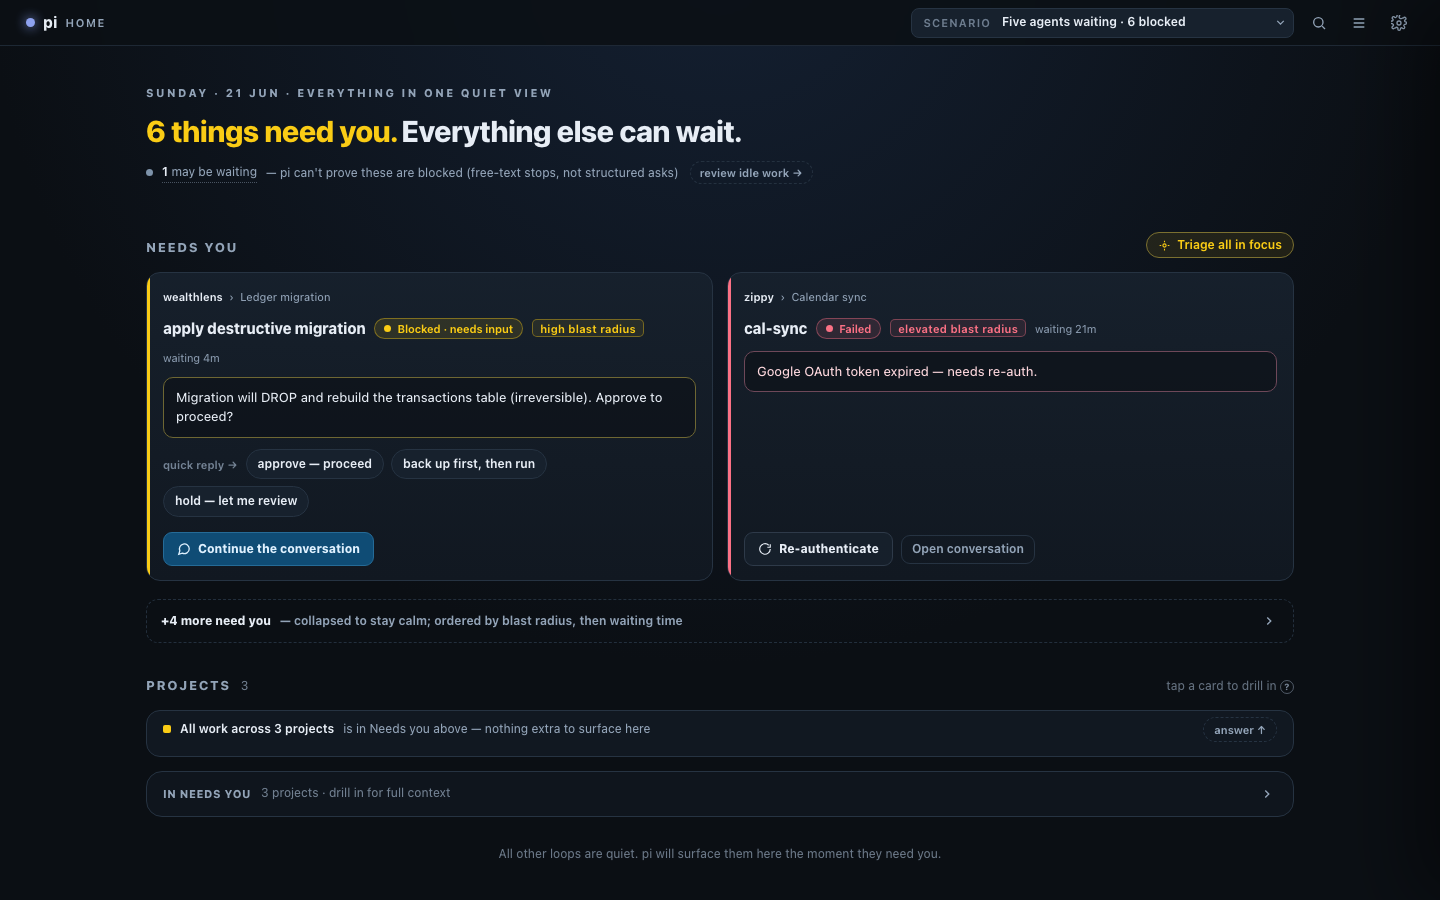
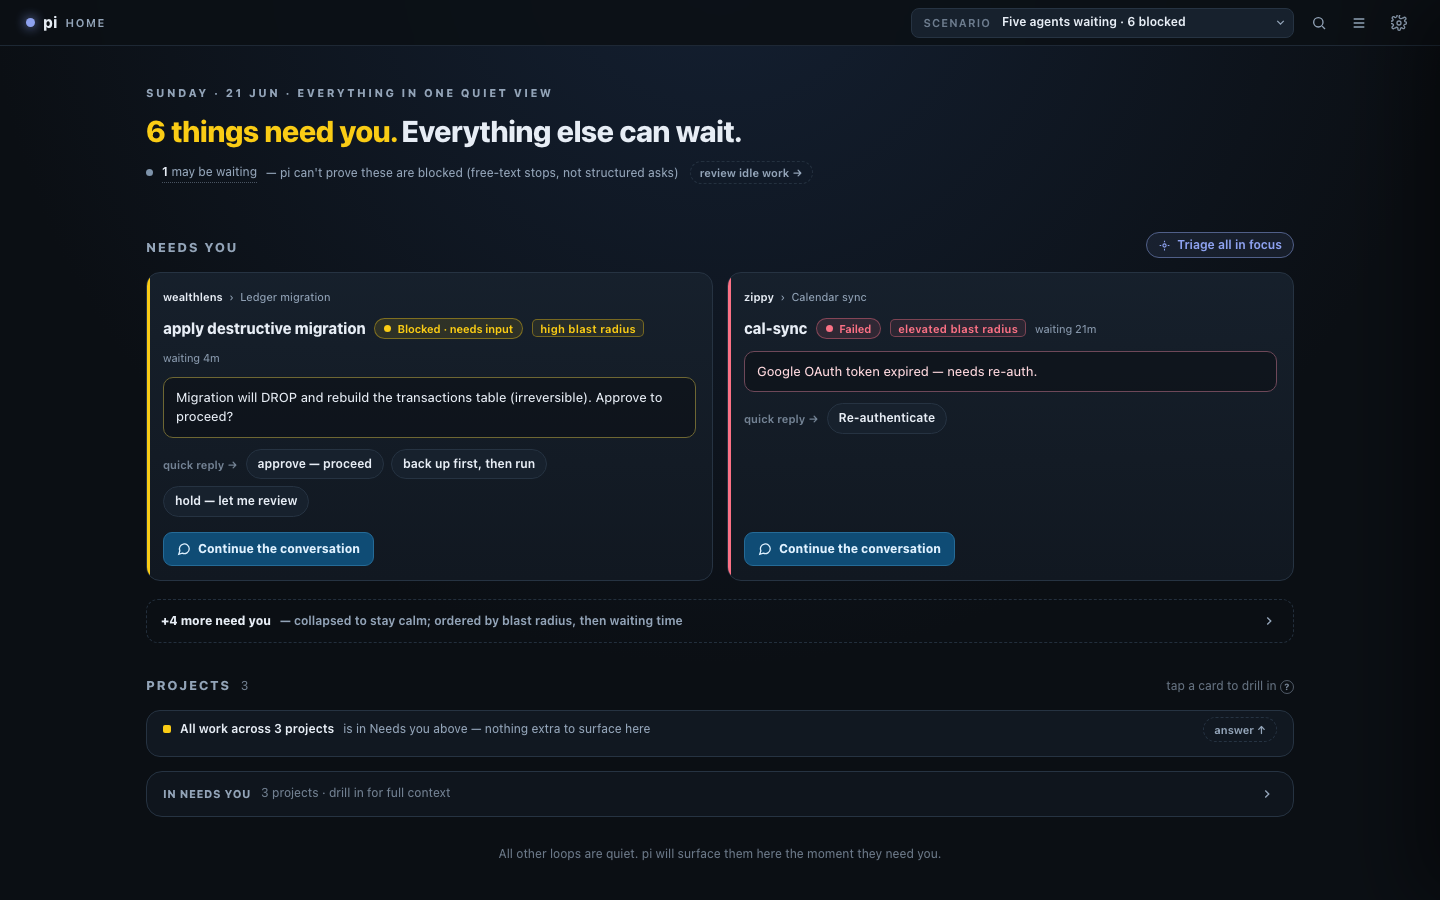
docs: visual review verdict

Changed region(s): [[0.5, 0.5911, 0.7188, 0.6533], [0.8125, 0.2489, 0.9062, 0.28], [0.5938, 0.4356, 0.6562, 0.4667]]

diff --git a/docs/dashboard-designs-final/CONVERGENCE-RUN.md b/docs/dashboard-designs-final/CONVERGENCE-RUN.md
@@ -293,3 +293,98 @@ converged, but the gap between it and convergence is three known, scoped edits r
 structural or conceptual flaw. The honesty discipline held where the design claimed it: the only
 place the code contradicted its own honesty annotations (the round-2 loop-elapsed surface) was
 caught and fixed.
+
+---
+
+## Visual review (steelman vs. red team, judged on screenshots)
+
+The adversarial run above debated the *code*: it grepped `index.html`, traced helpers, and argued
+about grounding. This second run debated the *picture*. A steelman and a red team each **looked at
+the rendered captures** — all thirteen-plus screenshots in this folder (the scenario set:
+`scn-calm`, `scn-blocked`, `scn-coldstart`, `scn-loop`, `scn-mixed`, `scn-scale`, `scn-nogit`,
+`scn-dense`, `scn-single`, `scn-empty`, plus the interaction states `state-coldstart-expanded`,
+`state-dormant-expanded`, `state-continue`, `state-drill`, `state-expand`, and `home`) — zoomed
+into contested regions at up to 10x, and argued about what the design *communicates to a human
+looking at it*: hero voice, color meaning, scannability, card silhouette, layout rhythm, and
+whether a glance tells the truth. A convergence judge then re-checked every charge against both the
+pixels and the code and graded the artifact's visual quality directly.
+
+### Per-round scorecard
+
+| Round | Commit    | Steelman grade | Judge visual grade | Charges | Upheld HIGH | Upheld MED | Overruled | Converged |
+| ----- | --------- | -------------- | ------------------ | ------- | ----------- | ---------- | --------- | --------- |
+| 1     | (pre-fix) | 8              | 8                  | 19      | 5           | 3          | 2         | no        |
+| 2     | `8bf3649` | 8              | 8                  | 18      | 1           | 2          | 3         | no        |
+| 3     | `e3ec889` | 8              | 8                  | 16      | 0           | 3          | 4         | no        |
+
+Visual grade held at 8/10 the whole run while the defect profile drained from the top down: five
+HIGH in round 1, one in round 2, zero by round 3. The remaining blockers are bounded medium-grade
+layout and keying issues, not conceptual ones — the same shape as the code run, where the design
+never lost a core invariant.
+
+### Most notable UPHELD visual/UX issues — and how they were fixed
+
+- **The cold-start hero lied at a glance (HIGH, rounds 1–2).** A registered project with *no*
+  Definition of Done rendered as `healthy` at every collapsed surface — `newsvc … healthy` under
+  "HEALTHY & DORMANT", and a hero reading "Nothing needs you." The eye was told everything was fine
+  when a project explicitly needed setup. **Fixed structurally:** cold-start now gets its own indigo
+  voice-changing hero — "1 project needs setup — author a Definition of Done to start tracking." —
+  its own "NEEDS SETUP" project group, a filled "Set a Definition of Done" CTA, and a purple
+  `Needs setup` chip (see `scn-coldstart.png` / `state-coldstart-expanded.png`). The unset state is
+  routed out of `healthy`/`dormant` entirely instead of silently folding into calm.
+- **"Continue the conversation" was not the consistent primary (MED, rounds 1–2).** The failed
+  cal-sync card taught "Re-authenticate" as its filled button while the neighboring blocked card said
+  "Continue" — breaking the reflex that *the answer is always to continue*. **Fixed:** every NEEDS
+  YOU card now carries a single filled-primary "Continue the conversation"; the remedy
+  (Re-authenticate / Re-run) is demoted to the secondary outline style (`scn-blocked.png`,
+  `home.png`).
+- **A status hue leaked onto an action control (MED, round 2).** The "Triage all in focus" bulk
+  button was painted the same amber reserved for Blocked status, on a six-blocked screen. **Fixed:**
+  the focus button now uses the indigo interaction accent, never a status color — matching the
+  sign-off bulk button, which already proved the pattern (action ≠ status).
+- **Three card silhouettes in one scale row + an indented auto-expanded card (MED, round 3,
+  open).** In `scn-scale.png` the project cards don't share one silhouette (filled vs. empty
+  top-right slot, ring vs. `∞` baseline, one subtitle truncates), and the auto-expanded mixed card
+  in `scn-mixed.png` renders narrower/indented than the full-bleed panels above it and clips at the
+  fold. These are the bounded layout fixes still queued at the cap.
+
+### Most notable OVERRULED charges (where the adversary was wrong on looking)
+
+The red team's loudest "dishonesty" charges mostly failed once the judge actually looked at the
+pixels:
+
+- **"The calm ring is a lie" — overruled.** The "1/1 met DoD" ring counts only the merged
+  workstream and discloses "1 loop running" separately; both numbers are literally true at their own
+  grain (`scn-calm.png`).
+- **"A free-floating amber blast-radius pill" — overruled.** The blast-radius pill is *red* on the
+  failed card and amber on the blocked card — each follows its own card's single status hue, not a
+  stray amber (`scn-blocked.png` / `home.png`).
+- **"The dormant green dots are fake idle indicators" — overruled.** The green dots are a
+  per-merged-workstream tally mapping 1:1 to the "N merged" count — green means merged, exactly as
+  labeled.
+- **"The sign-off strip is a faint unreadable ledger" — overruled.** The strip is comfortably
+  spaced and legible (`home.png`, `scn-nogit.png`); the only residue is a low-grade scan double-take
+  between a workstream-grain ring and a session-grain badge.
+- **"Verified receipts are loop auto-merges" / "PROJECTS 51 shows only 3" — overruled (round 1).**
+  The receipt carries an inline `?` provenance glyph on a real terminal merge sha, and the "only 3"
+  was a viewport-fold crop — the rollup group and rail jump exist below it (`scn-scale.png`).
+
+A recurring adversary failure mode, mirroring the code run, was reading a two-grain truth as a
+contradiction: a workstream-level ring and a session-level badge can disagree numerically and both
+be honest. The judge narrowed those to their real residue — a scannability nit — rather than
+accepting the "lie" framing.
+
+### Final verdict
+
+Looked at, not just read, this is a genuinely accomplished and opinionated dashboard. The single
+voice-changing hero that owns the only obligation count holds from one project to fifty-one; color
+is rationed to a disciplined status palette so the only saturated things on screen are the things
+that need a human; the k-of-n rings are honest about what they count; the quiet-Sunday view is
+truly calm and brave enough to say "You can close this tab"; and "Continue the conversation" is the
+one filled verb on every card that needs you. The visual run earned a steady 8/10 and drove the
+honesty defect the code reviews never saw — a cold-start project rendering as `healthy` to the
+naked eye — from a five-HIGH cluster down to zero, fixing it structurally rather than papering over
+it. It stops short of converged only on three bounded medium layout/keying issues (uneven scale-row
+silhouettes, an indented auto-expanded card, and a fixture-keyed mixed-source fork): real, visible,
+and worth fixing, but mechanical, not conceptual. The experience a person actually sees is calm,
+legible, and honest — and now honest in exactly the place a glance used to be reassured by a lie.
